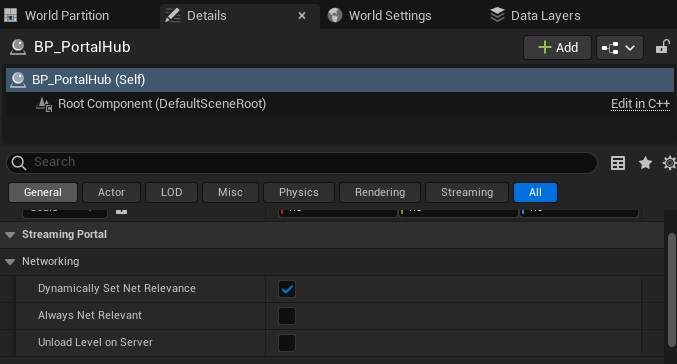
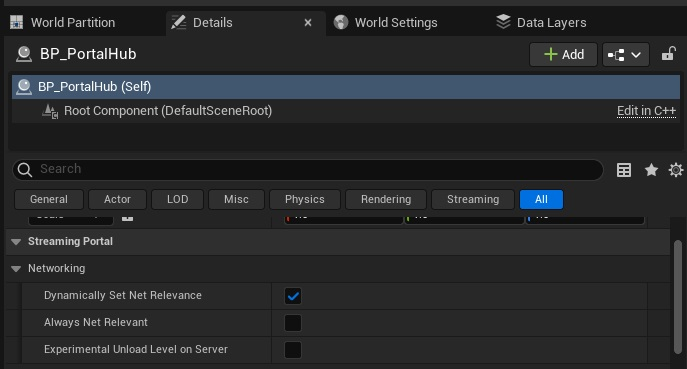
Docs update

diff --git a/Docs/Version_2_ReleaseDocs.md b/Docs/Version_2_ReleaseDocs.md
@@ -64,7 +64,7 @@ Conversely, if your Actor is set to Not Replicate and is configured as 'OnlyRele
 2. **Always Net Relevant:**
    - This setting configures 'bAlwaysRelevant' and 'NetCullDistanceSquared' to zero.
 
-3. **Unload Level on Server:**
+3. **Experimental Unload Level on Server:**
    - This functionality attempts to load and unload streaming levels on the server when they are no longer in use.
    - In Unreal Engine 5.2, a warning may appear in the console, but this seems to be an editor-only issue and can be safely ignored. This issue does not occur in version 5.3.
 
